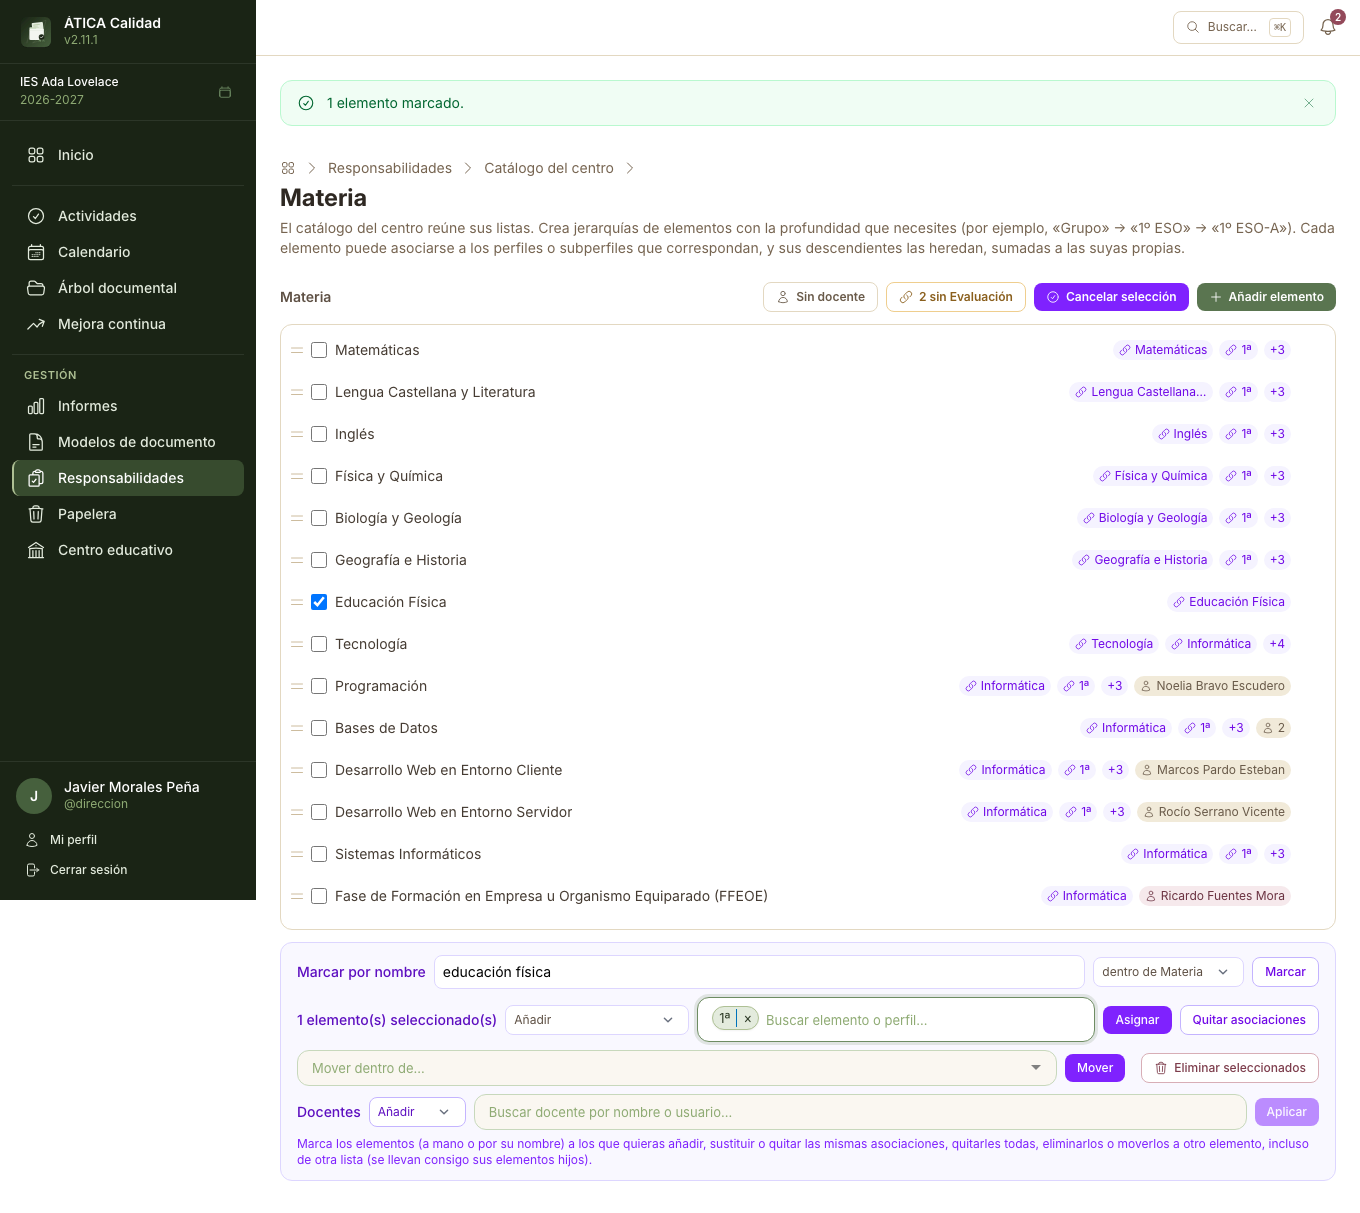
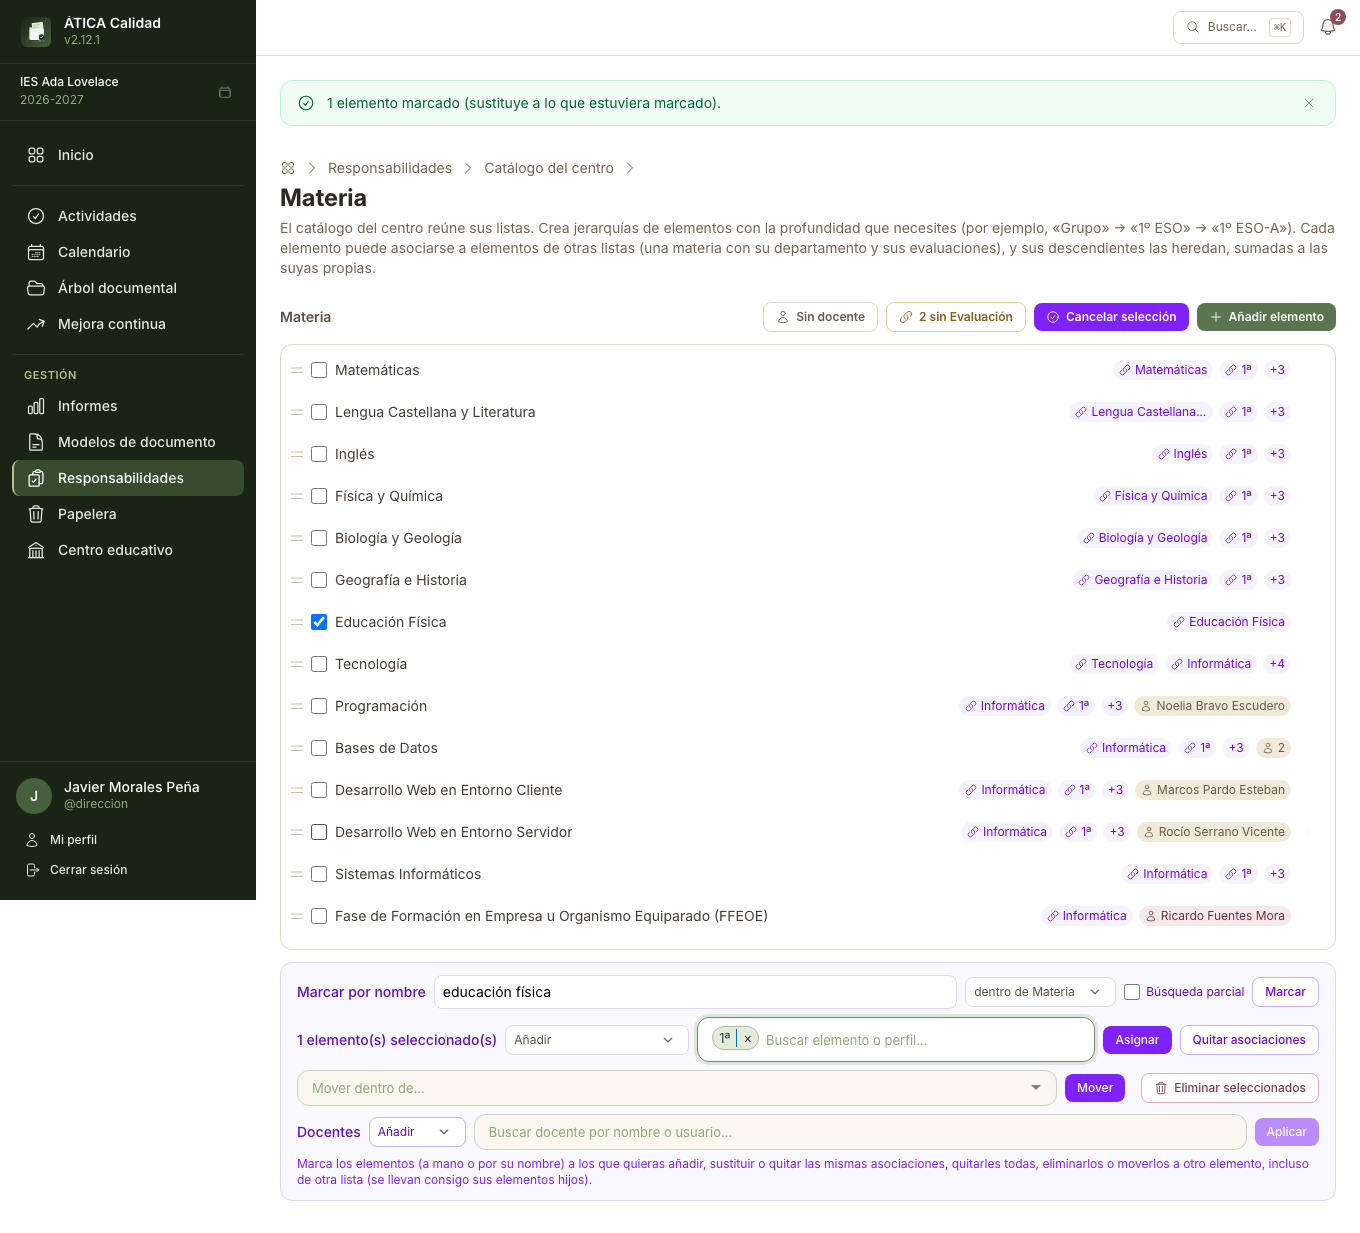
fix(responsibilities): la selección múltiple ya no arrastra perfiles ni elementos de búsquedas anteriores, el árbol no pierde el arrastre y «Marcar por nombre» admite búsqueda parcial

diff --git a/assets/controllers/nested_sortable_controller.js b/assets/controllers/nested_sortable_controller.js
@@ -5,10 +5,12 @@ import Sortable from 'sortablejs';
 /*
  * Turns every nested `<ul data-parent-id>` inside the controller's element into a SortableJS list
  * sharing one group, so a node can be dragged to reorder within its level or dropped into another
- * node's list to reparent it, in a single interaction. Re-scans on every Live Component re-render
- * (`live:render`) to pick up lists that didn't exist yet (e.g. a newly added child's own, still-
- * empty, list) — already-initialised lists are skipped via a flag kept on the element itself,
- * since morphdom reuses matching DOM nodes across renders.
+ * node's list to reparent it, in a single interaction. Re-scans after every Live Component re-render
+ * (the component's `render:finished` hook — there is no `live:render` DOM event, and listening for one
+ * left every list that appeared after the first render undraggable: the drag selected text instead)
+ * to pick up lists that didn't exist yet (e.g. a newly added child's own, still-empty, list) —
+ * already-initialised lists are skipped via a flag kept on the element itself, since the morph reuses
+ * matching DOM nodes across renders.
  *
  * Generic over which entity is being reordered (document sections, list items...) via three
  * Stimulus values, so the same controller drives every nested tree editor instead of one
@@ -28,14 +30,16 @@ export default class extends Controller {
         group: String,
     };
 
-    connect() {
-        this.onRender = () => this.initSortables();
-        this.element.addEventListener('live:render', this.onRender);
+    async connect() {
         this.initSortables();
+        this.onRender = () => this.initSortables();
+        this.component = await getComponent(this.element);
+        this.component.on('render:finished', this.onRender);
     }
 
     disconnect() {
-        this.element.removeEventListener('live:render', this.onRender);
+        this.component?.off('render:finished', this.onRender);
+        this.component = null;
         this.element.querySelectorAll('[data-parent-id]').forEach((list) => {
             list.sortableInstance?.destroy();
             delete list.sortableInstance;

diff --git a/src/Twig/Components/Admin/ListItemTreeComponent.php b/src/Twig/Components/Admin/ListItemTreeComponent.php
@@ -124,6 +124,10 @@ class ListItemTreeComponent extends AbstractController
     #[LiveProp(writable: true)]
     public string $markWithinId = '';
 
+    /** «Búsqueda parcial»: the name only has to appear inside the leaf's («Empleabilidad» finds «… para la Empleabilidad I» and «… II»). */
+    #[LiveProp(writable: true)]
+    public bool $markPartial = false;
+
     /** What the bulk association does with the picked ones on the checked items: 'add', 'replace' (those of the same lists) or 'remove'. */
     #[LiveProp(writable: true)]
     public string $bulkAssociationMode = 'add';
@@ -161,6 +165,13 @@ class ListItemTreeComponent extends AbstractController
      */
     #[LiveProp(writable: true)]
     public array $bulkAssociationKeys = [];
+
+    /**
+     * Bumped after each bulk association action, like $bulkTeacherRound: the picker is data-live-ignore, so emptying
+     * $bulkAssociationKeys alone left the previous profiles on screen, and the next pick sent them again with the new one.
+     */
+    #[LiveProp]
+    public int $bulkAssociationRound = 0;
 
     /**
      * Ids of the teachers associated with the selected item as its own (not the ones it inherits): what the «Docentes» picker of the
@@ -1156,8 +1167,10 @@ class ListItemTreeComponent extends AbstractController
     }
 
     /**
-     * Checks every leaf under the chosen branch whose name is exactly $markName, ignoring case and accents («Itinerario Personal para
-     * la Empleabilidad I» in every course), on top of what is already checked.
+     * Checks every leaf under the chosen branch whose name is $markName — exactly or, with $markPartial, containing it —, ignoring case
+     * and accents («Itinerario Personal para la Empleabilidad I» in every course). The found ones REPLACE what was checked: adding
+     * them on top left the leaves of earlier searches checked (often in collapsed branches, out of sight), and the next «Asignar»
+     * reached them too.
      */
     #[LiveAction]
     public function markByName(): void
@@ -1171,15 +1184,15 @@ class ListItemTreeComponent extends AbstractController
             return;
         }
 
-        $ids   = array_flip(array_map('strval', $this->bulkSelectedIds));
-        $count = 0;
+        $ids = [];
         foreach ($this->items->findLeafDescendants($within) as $leaf) {
-            if (self::comparable($leaf->getName()) === $name) {
-                $ids[$leaf->getId()->toRfc4122()] = true;
-                ++$count;
+            $leafName = self::comparable($leaf->getName());
+            if ($this->markPartial ? str_contains($leafName, $name) : $leafName === $name) {
+                $ids[] = $leaf->getId()->toRfc4122();
             }
         }
-        $this->bulkSelectedIds = array_keys($ids);
+        $count                 = \count($ids);
+        $this->bulkSelectedIds = $ids;
         $this->flashSuccess($this->translator->trans('responsibilities.lists.bulk.mark.flash', ['%count%' => $count], 'admin'));
     }
 
@@ -1530,6 +1543,7 @@ class ListItemTreeComponent extends AbstractController
         $this->save();
         $this->bulkSelectedIds     = [];
         $this->bulkAssociationKeys = [];
+        ++$this->bulkAssociationRound;
         $this->flashSuccess($this->translator->trans('responsibilities.lists.bulk.flash.saved', ['%count%' => $count], 'admin'));
     }
 
@@ -1556,6 +1570,7 @@ class ListItemTreeComponent extends AbstractController
         $this->save();
         $this->bulkSelectedIds     = [];
         $this->bulkAssociationKeys = [];
+        ++$this->bulkAssociationRound;
         $this->flashSuccess($this->translator->trans('responsibilities.lists.bulk.flash.cleared', ['%count%' => $count], 'admin'));
     }
 

diff --git a/tests/Integration/Component/Admin/ListItemTreeComponentTest.php b/tests/Integration/Component/Admin/ListItemTreeComponentTest.php
@@ -474,6 +474,46 @@ final class ListItemTreeComponentTest extends ControllerTestCase
         self::assertStringNotContainsString('Itinerario Personal', $tree, 'the filter shows only what has no department');
     }
 
+    /**
+     * «Marcar por nombre» replaces what is checked (the leaves of an earlier search, often out of sight, used to stay checked and get
+     * the next «Asignar» too); «Búsqueda parcial» marks the leaves whose name contains the text. After «Asignar», the profile picker
+     * comes back empty, so the profiles just assigned are not sent again with the next ones.
+     */
+    public function testMarkByNameReplacesTheCheckedOnesAndCanMatchPartially(): void
+    {
+        $centre   = $this->centre();
+        $depts    = (new ListItem())->setEducationalCentre($centre)->setName('Departamento');
+        $fol      = (new ListItem())->setEducationalCentre($centre)->setName('FOL')->setParent($depts);
+        $subjects = (new ListItem())->setEducationalCentre($centre)->setName('Materia')->addLinkedList($depts);
+        $dam      = (new ListItem())->setEducationalCentre($centre)->setName('1º DAM')->setParent($subjects);
+        $ipe1     = (new ListItem())->setEducationalCentre($centre)->setName('Itinerario Personal para la Empleabilidad I')->setParent($dam);
+        $ipe2     = (new ListItem())->setEducationalCentre($centre)->setName('Itinerario Personal para la Empleabilidad II')->setParent($dam);
+        $prog     = (new ListItem())->setEducationalCentre($centre)->setName('Programación')->setParent($dam);
+        $admin    = $this->admin();
+        $centre->getAdmins()->add($admin);
+        $this->persist($centre, $depts, $fol, $subjects, $dam, $ipe1, $ipe2, $prog, $admin);
+
+        $this->loginAs($admin, $centre);
+        $component = $this->createLiveComponent('Admin:ListItemTreeComponent', ['centre' => $centre, 'root' => $subjects], $this->client);
+        $component->call('toggleBulkSelectMode');
+
+        $component->set('markName', 'Programación')->call('markByName');
+        $component->set('markName', 'empleabilidad')->call('markByName');
+        self::assertSame([], $this->props($component)['bulkSelectedIds'], 'not an exact name: nothing marked, and «Programación» no longer either');
+
+        $component->set('markPartial', true)->call('markByName');
+        $checked = $this->props($component)['bulkSelectedIds'];
+        self::assertIsArray($checked);
+        sort($checked);
+        $expected = [$ipe1->getId()->toRfc4122(), $ipe2->getId()->toRfc4122()];
+        sort($expected);
+        self::assertSame($expected, $checked, 'partial: both «Empleabilidad», case and accents aside');
+
+        self::assertStringContainsString('id="bulk-association-picker-0"', $component->render()->toString());
+        $component->set('bulkAssociationKeys', ['l:' . $fol->getId()->toRfc4122()])->call('bulkSaveAssociation');
+        self::assertStringContainsString('id="bulk-association-picker-1"', $component->render()->toString(), 'a fresh, empty picker after «Asignar»');
+    }
+
     public function testBulkReplaceChangesOnlyTheAssociationsOfTheSameList(): void
     {
         $centre   = $this->centre();

diff --git a/CHANGELOG.md b/CHANGELOG.md
@@ -7,6 +7,26 @@ a [Semantic Versioning](https://semver.org/lang/es/).
 
 ## [Unreleased]
 
+### Added
+
+- Responsabilidades: **Marcar por nombre** tiene la casilla **Búsqueda parcial**, que marca también los elementos cuyo
+  nombre contiene el texto («Empleabilidad» marca los dos «Itinerario Personal para la Empleabilidad»).
+
+### Changed
+
+- Responsabilidades: cada **Marcar por nombre** sustituye lo que estuviera marcado en vez de sumarse a ello. Antes, los
+  elementos de búsquedas anteriores (a menudo en ramas plegadas, sin verse) seguían marcados y recibían también la
+  siguiente asignación.
+
+### Fixed
+
+- Responsabilidades, modo de selección: después de **Asignar** o **Quitar asociaciones**, el buscador de perfiles seguía
+  mostrando los perfiles recién asignados, y al elegir otro se volvían a enviar todos juntos: se asignaban perfiles que
+  no tocaban. Ahora vuelve a quedar vacío.
+- Responsabilidades: el arrastrar y soltar del árbol dejaba de funcionar tras reordenar o añadir elementos (se
+  seleccionaba el texto de la rama en lugar de moverla) hasta recargar la página. Afectaba también a las secciones de
+  las carpetas.
+
 ## [2.12.1] - 2026-11-27
 
 ### Fixed

diff --git a/docs/manual/06-responsabilidades.md b/docs/manual/06-responsabilidades.md
@@ -226,7 +226,10 @@ las elegidas; las de las otras listas no se tocan, y los perfiles sin lista cuen
 sustituir por «Orientador/a» deja ese perfil en lugar de los perfiles sin lista que tuviera) o **Quitar**; y **Quitar asociaciones** se las
 quita todas. **Marcar por nombre** marca, sin distinguir mayúsculas ni tildes, todas las hojas con
 ese nombre exacto dentro de la lista o de la rama elegida en **dentro de**: con «Itinerario Personal
-para la Empleabilidad I» se marcan de una vez las de todos los cursos para asociarlas a FOL. El
+para la Empleabilidad I» se marcan de una vez las de todos los cursos para asociarlas a FOL. Con la
+casilla **Búsqueda parcial** basta con que el nombre contenga el texto: «Empleabilidad» marca a la vez
+las de I y II. Cada búsqueda **sustituye** lo que estuviera marcado, para que no se cuelen en la
+siguiente asignación elementos de una búsqueda anterior que quizá ya no se ven en el árbol. El
 «dentro de» importa porque una materia con el mismo nombre puede ser de departamentos distintos según
 el ciclo.
 
